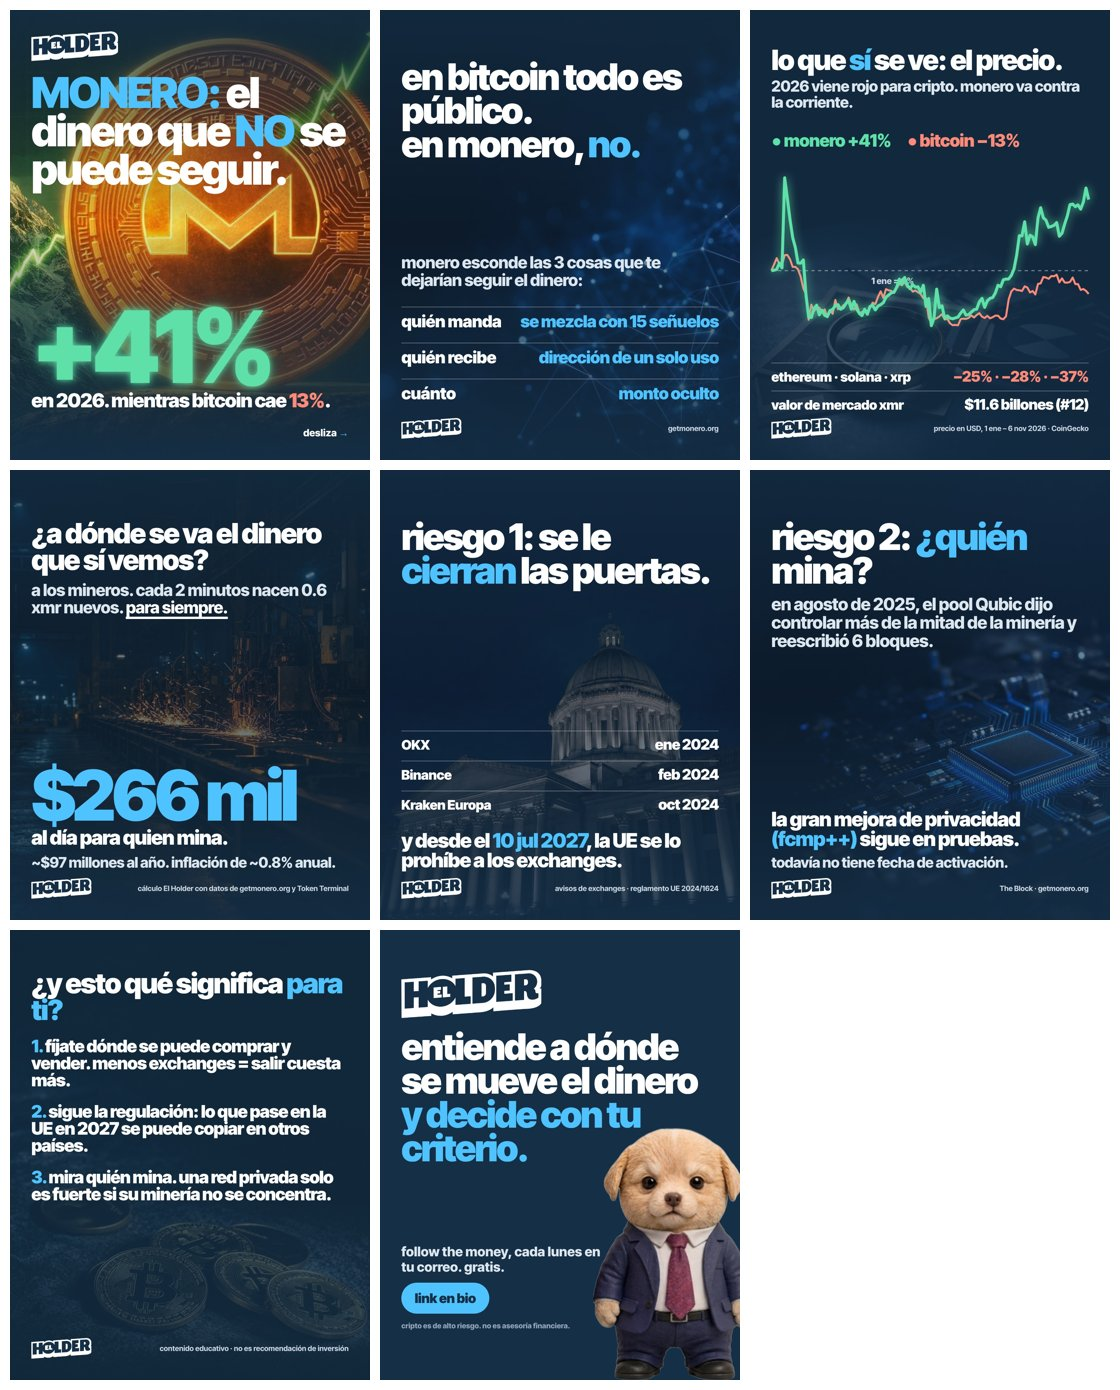
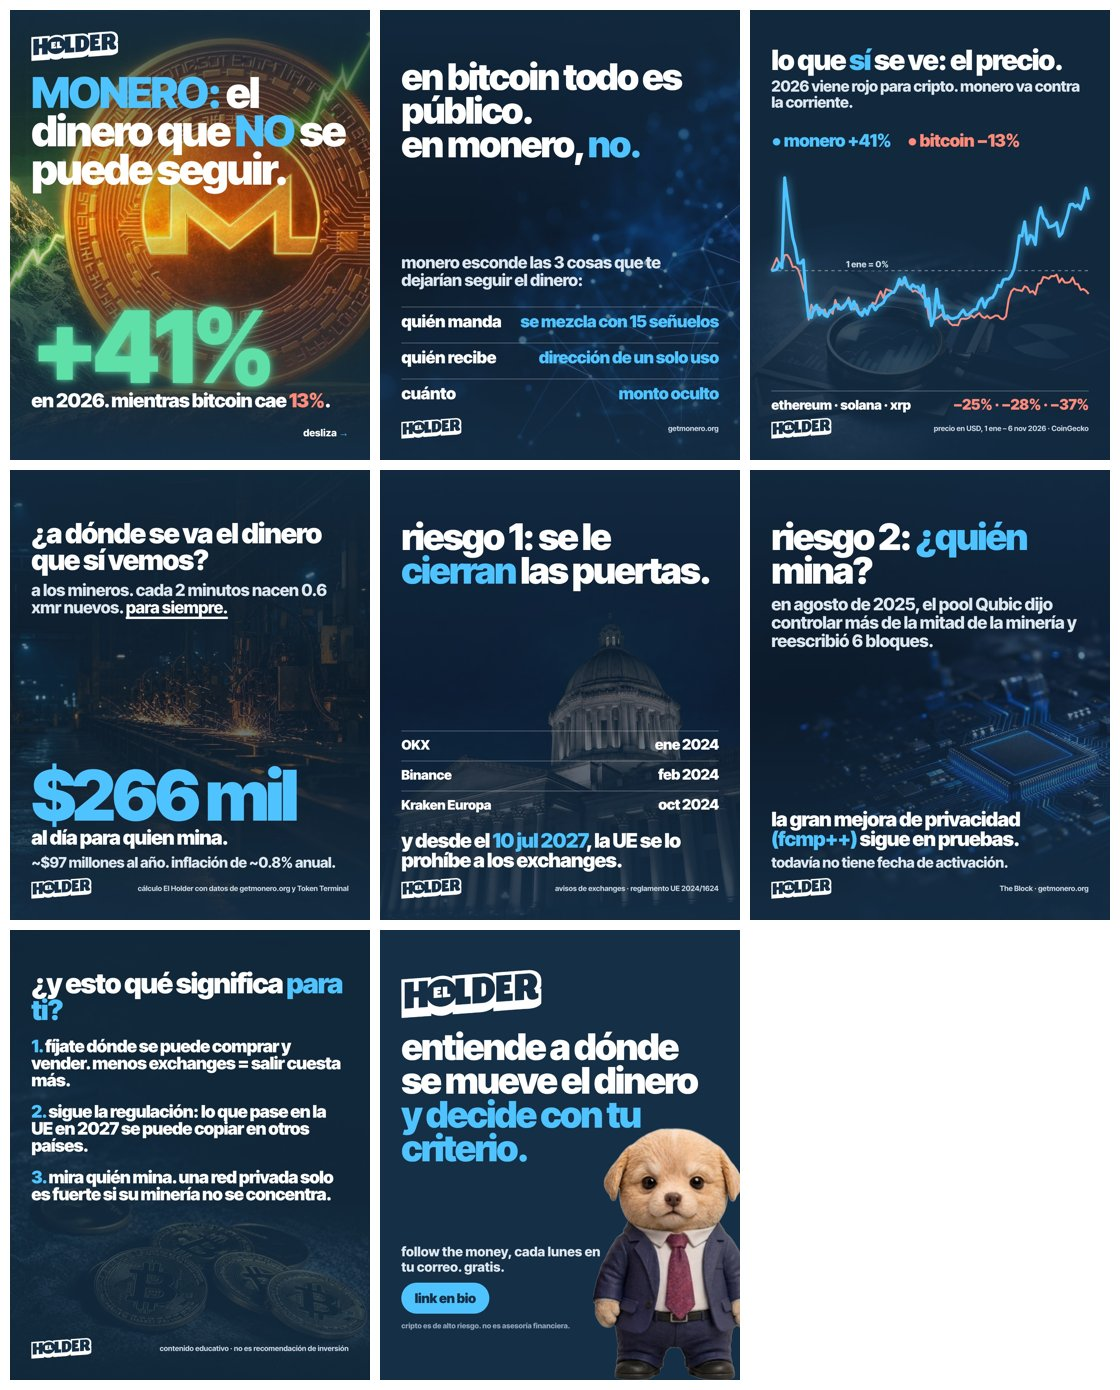
FTM Monero: slide 3 en azul, etiqueta visible y thumbnail 16:9
Claude-Session: https://claude.ai/code/session_01QwPVdY6K4deCfiRsgEEvgq

diff --git a/series/follow-the-money/2026-11-09-monero/carrusel/src/slide-03.html b/series/follow-the-money/2026-11-09-monero/carrusel/src/slide-03.html
@@ -7,16 +7,15 @@
     <p class="t-s" style="font-size:46px">2026 viene rojo para cripto. monero va contra la corriente.</p>
   </div>
   <div style="position:absolute;left:64px;top:360px;display:flex;gap:48px;font-weight:900;font-size:52px;letter-spacing:-.03em">
-    <span style="color:#5EE0A8">● monero +41%</span><span style="color:#FF8A7A">● bitcoin −13%</span></div>
+    <span style="color:#4FC3FF">● monero +41%</span><span style="color:#FF8A7A">● bitcoin −13%</span></div>
   <div style="position:absolute;left:64px;top:470px"><svg width="952" height="520" viewBox="0 0 952 520" style="overflow:visible">
 <line x1="0" y1="312.0" x2="952" y2="312.0" stroke="rgba(255,255,255,.45)" stroke-width="3" stroke-dasharray="10 10"/>
-<text x="300" y="352.0" fill="#C9D6E2" font-size="26" font-weight="800" font-family="Inter Tight">1 ene = 0%</text>
+<rect x="226" y="276" width="124" height="36" rx="8" fill="#152F46"/><text x="288" y="302.0" text-anchor="middle" fill="#C9D6E2" font-size="26" font-weight="800" font-family="Inter Tight">1 ene = 0%</text>
 <polyline points="0.0,312.0 8.0,294.0 16.0,274.6 24.0,291.5 32.0,295.1 40.0,265.4 48.0,264.8 56.0,277.7 64.0,300.8 72.0,300.4 80.0,308.0 88.0,329.5 96.0,365.0 104.0,382.9 112.0,459.2 120.0,414.0 128.0,433.6 136.0,423.3 144.0,423.1 152.0,437.6 160.0,428.1 168.0,451.5 176.0,431.2 184.0,441.2 192.0,400.0 200.0,427.4 208.0,425.7 216.0,416.2 224.0,409.5 232.0,392.6 240.0,416.7 248.0,428.6 256.0,413.2 264.0,438.1 272.0,436.0 280.0,428.5 288.0,433.7 296.0,424.2 304.0,408.2 312.0,412.4 320.0,390.8 328.0,374.0 336.0,393.5 344.0,367.4 352.0,371.0 360.0,372.6 368.0,379.0 376.0,364.8 384.0,351.6 392.0,355.8 400.0,345.0 408.0,361.2 416.0,362.5 424.0,375.0 432.0,371.5 440.0,376.7 448.0,381.6 456.0,394.7 464.0,395.0 472.0,451.7 480.0,470.0 488.0,457.5 496.0,454.6 504.0,449.6 512.0,442.4 520.0,458.5 528.0,456.4 536.0,469.9 544.0,475.6 552.0,474.8 560.0,475.9 568.0,457.4 576.0,455.9 584.0,456.8 592.0,453.5 600.0,446.1 608.0,452.5 616.0,444.9 624.0,439.6 632.0,450.1 640.0,453.8 648.0,447.6 656.0,454.9 664.0,451.6 672.0,446.8 680.0,446.9 688.0,455.5 696.0,457.7 704.0,449.1 712.0,398.4 720.0,374.3 728.0,365.8 736.0,369.9 744.0,370.9 752.0,373.0 760.0,358.9 768.0,362.4 776.0,377.4 784.0,373.2 792.0,383.2 800.0,351.8 808.0,350.0 816.0,331.0 824.0,332.8 832.0,336.3 840.0,328.2 848.0,328.8 856.0,324.1 864.0,347.0 872.0,335.1 880.0,347.5 888.0,347.9 896.0,345.8 904.0,332.7 912.0,352.2 920.0,352.2 928.0,369.8 936.0,367.1 944.0,372.5 952.0,381.7" fill="none" stroke="#FF8A7A" stroke-width="6" stroke-linejoin="round"/>
-<polyline points="0.0,312.0 8.0,310.8 16.0,308.4 24.0,289.4 32.0,303.6 40.0,33.5 48.0,95.0 56.0,158.2 64.0,212.5 72.0,242.3 80.0,289.1 88.0,289.4 96.0,279.8 104.0,385.1 112.0,451.5 120.0,452.4 128.0,425.3 136.0,415.6 144.0,444.6 152.0,430.8 160.0,445.7 168.0,449.8 176.0,431.6 184.0,428.1 192.0,416.9 200.0,414.1 208.0,427.6 216.0,423.1 224.0,410.3 232.0,401.2 240.0,427.7 248.0,404.3 256.0,426.9 264.0,440.2 272.0,446.8 280.0,427.8 288.0,442.5 296.0,419.4 304.0,416.1 312.0,429.6 320.0,418.3 328.0,413.9 336.0,408.0 344.0,391.8 352.0,385.0 360.0,378.6 368.0,376.7 376.0,361.9 384.0,337.6 392.0,352.4 400.0,332.5 408.0,356.0 416.0,365.9 424.0,354.2 432.0,361.2 440.0,360.6 448.0,376.3 456.0,355.9 464.0,419.3 472.0,395.6 480.0,477.0 488.0,454.6 496.0,367.4 504.0,422.9 512.0,417.5 520.0,454.3 528.0,447.7 536.0,454.4 544.0,456.4 552.0,453.8 560.0,451.2 568.0,439.2 576.0,429.9 584.0,445.5 592.0,443.5 600.0,436.3 608.0,429.2 616.0,427.3 624.0,405.7 632.0,395.1 640.0,422.0 648.0,402.4 656.0,395.1 664.0,392.7 672.0,379.1 680.0,355.7 688.0,360.3 696.0,339.4 704.0,337.2 712.0,336.9 720.0,326.2 728.0,306.9 736.0,265.7 744.0,207.3 752.0,207.6 760.0,165.3 768.0,232.0 776.0,205.9 784.0,210.4 792.0,233.7 800.0,154.0 808.0,123.1 816.0,153.4 824.0,160.8 832.0,181.8 840.0,179.4 848.0,176.1 856.0,167.8 864.0,208.8 872.0,199.8 880.0,172.2 888.0,147.7 896.0,113.8 904.0,112.2 912.0,120.0 920.0,114.6 928.0,127.4 936.0,106.5 944.0,64.1 952.0,98.8" fill="none" stroke="#5EE0A8" stroke-width="9" stroke-linejoin="round" style="filter:drop-shadow(0 0 14px rgba(94,224,168,.8))"/>
+<polyline points="0.0,312.0 8.0,310.8 16.0,308.4 24.0,289.4 32.0,303.6 40.0,33.5 48.0,95.0 56.0,158.2 64.0,212.5 72.0,242.3 80.0,289.1 88.0,289.4 96.0,279.8 104.0,385.1 112.0,451.5 120.0,452.4 128.0,425.3 136.0,415.6 144.0,444.6 152.0,430.8 160.0,445.7 168.0,449.8 176.0,431.6 184.0,428.1 192.0,416.9 200.0,414.1 208.0,427.6 216.0,423.1 224.0,410.3 232.0,401.2 240.0,427.7 248.0,404.3 256.0,426.9 264.0,440.2 272.0,446.8 280.0,427.8 288.0,442.5 296.0,419.4 304.0,416.1 312.0,429.6 320.0,418.3 328.0,413.9 336.0,408.0 344.0,391.8 352.0,385.0 360.0,378.6 368.0,376.7 376.0,361.9 384.0,337.6 392.0,352.4 400.0,332.5 408.0,356.0 416.0,365.9 424.0,354.2 432.0,361.2 440.0,360.6 448.0,376.3 456.0,355.9 464.0,419.3 472.0,395.6 480.0,477.0 488.0,454.6 496.0,367.4 504.0,422.9 512.0,417.5 520.0,454.3 528.0,447.7 536.0,454.4 544.0,456.4 552.0,453.8 560.0,451.2 568.0,439.2 576.0,429.9 584.0,445.5 592.0,443.5 600.0,436.3 608.0,429.2 616.0,427.3 624.0,405.7 632.0,395.1 640.0,422.0 648.0,402.4 656.0,395.1 664.0,392.7 672.0,379.1 680.0,355.7 688.0,360.3 696.0,339.4 704.0,337.2 712.0,336.9 720.0,326.2 728.0,306.9 736.0,265.7 744.0,207.3 752.0,207.6 760.0,165.3 768.0,232.0 776.0,205.9 784.0,210.4 792.0,233.7 800.0,154.0 808.0,123.1 816.0,153.4 824.0,160.8 832.0,181.8 840.0,179.4 848.0,176.1 856.0,167.8 864.0,208.8 872.0,199.8 880.0,172.2 888.0,147.7 896.0,113.8 904.0,112.2 912.0,120.0 920.0,114.6 928.0,127.4 936.0,106.5 944.0,64.1 952.0,98.8" fill="none" stroke="#4FC3FF" stroke-width="9" stroke-linejoin="round" style="filter:drop-shadow(0 0 14px rgba(79,195,255,.8))"/>
 </svg></div>
   <div class="abajo" style="bottom:140px;gap:16px">
     <div class="fila"><span class="n">ethereum · solana · xrp</span><span class="v rojo">−25% · −28% · −37%</span></div>
-    <div class="fila"><span class="n">valor de mercado xmr</span><span class="v">$11.6 billones (#12)</span></div>
   </div>
   <div class="pie"><img src="../../../../../brand/logo-horizontal-transparente.png" alt="El Holder"><span>precio en USD, 1 ene – 6 nov 2026 · CoinGecko</span></div>
 </div></body></html>

diff --git a/series/follow-the-money/2026-11-09-monero/carrusel/thumb/thumb.html b/series/follow-the-money/2026-11-09-monero/carrusel/thumb/thumb.html
@@ -1,0 +1,13 @@
+<!doctype html><html lang="es"><head><meta charset="utf-8"><link rel="stylesheet" href="../../../../../plantilla/base.css">
+<style>
+.slide{width:1200px;height:675px}
+.neon{color:#5EE0A8;text-shadow:0 0 18px rgba(94,224,168,.9),0 0 48px rgba(94,224,168,.55)}
+</style></head><body>
+<div class="slide">
+  <div class="bg" style="background-image:url(../fondos/monero-portada.jpg);background-position:70% 45%"></div>
+  <div style="position:absolute;inset:0;background:linear-gradient(90deg,rgba(21,47,70,.96) 0%,rgba(21,47,70,.88) 42%,rgba(21,47,70,.25) 70%,rgba(21,47,70,.15) 100%)"></div>
+  <img src="../../../../../brand/logo-horizontal-transparente.png" alt="El Holder" style="position:absolute;left:56px;top:44px;width:200px;height:auto">
+  <h1 class="t-xxl" style="position:absolute;left:56px;top:128px;width:720px;font-size:78px;line-height:.98;margin:0"><span class="acento">MONERO:</span> el dinero que <span class="acento">NO</span> se puede seguir.</h1>
+  <p class="cifra neon" style="position:absolute;left:52px;bottom:118px;font-size:190px;margin:0;color:#5EE0A8">+41%</p>
+  <p class="t-m" style="position:absolute;left:56px;bottom:56px;font-size:36px;margin:0">en 2026. mientras bitcoin cae <span class="rojo">13%</span>.</p>
+</div></body></html>
